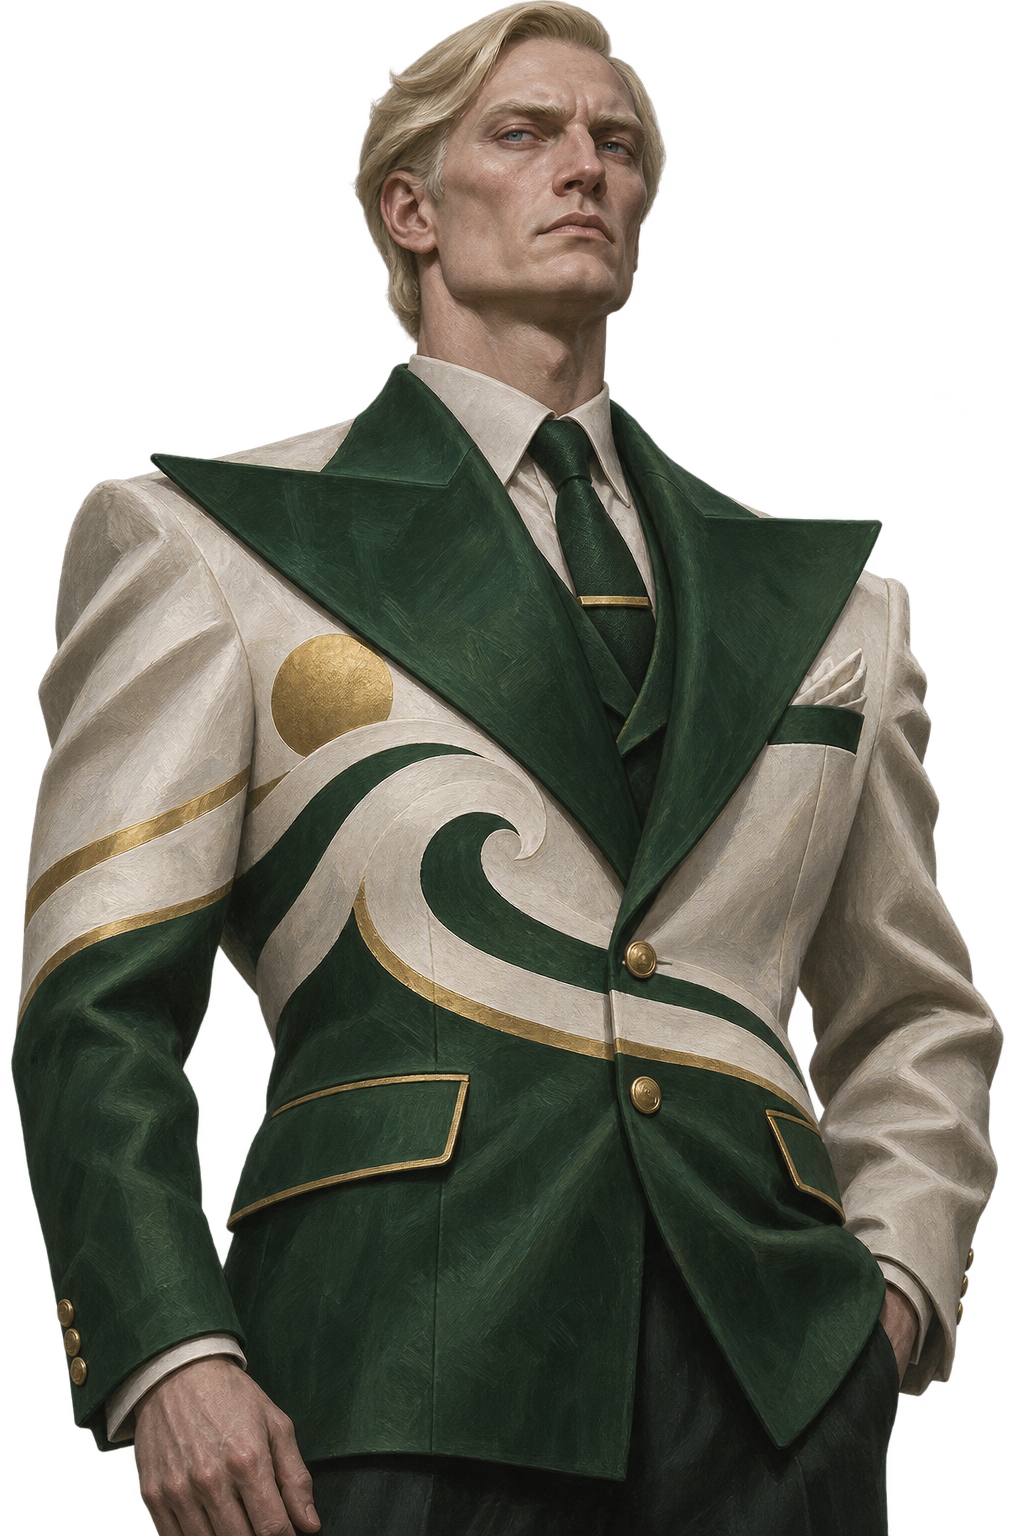
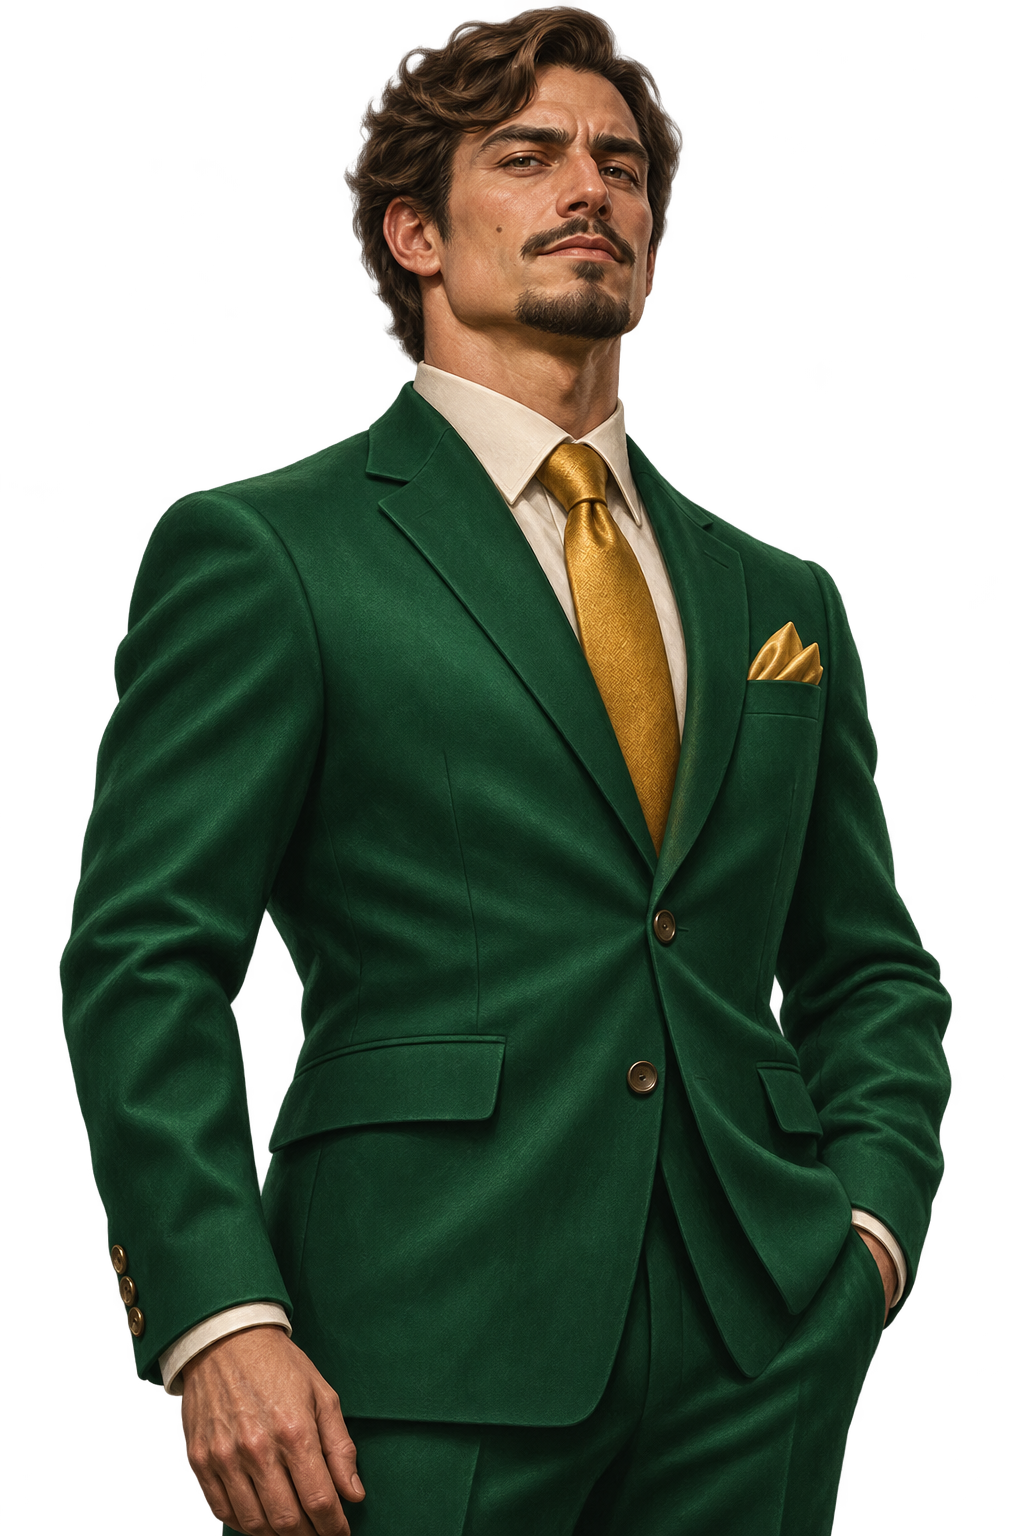
Refine Solano portrait direction

diff --git a/docs/ART-UI-CANON.md b/docs/ART-UI-CANON.md
@@ -19,7 +19,7 @@ Livia: approved wavy dark hair, silver streaks, freckles, tailored green jacket,
 ## Current character portrait direction
 - Keep character masters in the established cinematic painterly realism and repository asset format. Standing is a pose direction, not a request for full-length character sheets; use portrait framing without feet. Preserve natural side-angled posture, identity, costume and lighting. Create seated versions only when requested.
 - Lucas Belzens may take loose inspiration from the author's supplied photo while remaining a distinct fictional character: fair warm skin, slightly long oval face, narrow straight nose, warm brown/hazel eyes with a slight smile-squint, medium-brown side-parted wavy hair, neat short circle beard with a connected moustache and chin beard, clean-shaven cheeks, a subtle Adam's apple and pronounced collarbones, and a slim longer neck. Wine-colored suit.
-- Edvar Solano: pale, blond, blue-eyed, Nordic-coded appearance. His suit should be deliberately bold and stylized in Kunasai's green, white and gold flag colors. His visual rhetoric may suggest the separatist or supremacist movement he could lead; avoid importing unrequested real-world insignia.
+- Edvar Solano: a plausible Kunasaiian appearance without an exaggerated Nordic/Aryan archetype. His forceful political presence may suggest the movement he could lead through expression and posture. Use believable tailored clothing with vivid, high-contrast green, white and gold from Kunasai's flag; keep the colors energetic without oversized lapels, large flag graphics or costume-like trim.
 - Darian Kesht: leaner and paler, watchful, subtly vampiric in mood while capable and professional. Martin Works inherits Kesht's previous portrait design.
 - Julio Porper: sun-weathered sertão appearance, darker dry-looking skin and practical clothing. Arturo Trembolo: larger, broad-shouldered, easy wealthy confidence. Tomás Arguedas: modern San Martín-inspired bearing and styling. Nima Sadrah: Chinese features and understated diplomatic presence. Renata Salgado: Japanese-Kunasaian features with her composed, authoritative design.
 - Keep the cast predominantly Latin American while varying facial features, body types, men's hair and facial hair across the wider roster. Include Chinese, Japanese, Central European and Nordic looks naturally, and some slightly overweight characters without exaggeration. Visual choices should fit each character and avoid caricature or treating appearance as shorthand for personality or politics.
